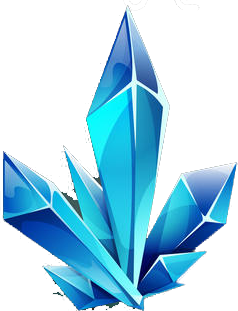
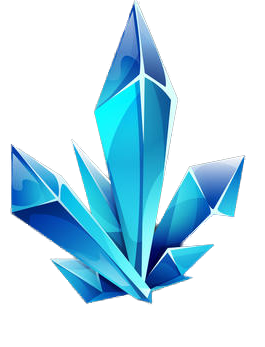
added a few background images to the jumbotrons and changed the theme to b&w

diff --git a/index.html b/index.html
@@ -7,53 +7,92 @@
   <link rel="stylesheet" type="text/css" href="assets/css/reset.css">
   <!-- Added link to the jQuery library -->
   <script src="https://cdnjs.cloudflare.com/ajax/libs/jquery/3.2.1/jquery.min.js"></script>
+  <script src="https://code.jquery.com/jquery-3.3.1.slim.min.js" integrity="sha384-q8i/X+965DzO0rT7abK41JStQIAqVgRVzpbzo5smXKp4YfRvH+8abtTE1Pi6jizo" crossorigin="anonymous"></script>
+<script src="https://cdnjs.cloudflare.com/ajax/libs/popper.js/1.14.0/umd/popper.min.js" integrity="sha384-cs/chFZiN24E4KMATLdqdvsezGxaGsi4hLGOzlXwp5UZB1LY//20VyM2taTB4QvJ" crossorigin="anonymous"></script>
 
   <!-- Added a link to Bootstrap-->
   <link rel="stylesheet" href="https://maxcdn.bootstrapcdn.com/bootstrap/4.0.0/css/bootstrap.min.css">
+  <link href="https://fonts.googleapis.com/css?family=Amatic+SC" rel="stylesheet">
   <link rel="stylesheet" type="text/css" href="assets/css/style.css">  
-
+<script>
+    var crystal1Sound = new Audio();
+    crystal1Sound.src = "assets/sounds/Pop.mp3";
+</script>>
+</style>
 </head>
-<body class="bg-dark">
-    <div class="jumbotron bg-primary text-white">
-            <h1 class="text-center">Crystal Clarity</h1>
-    </div>
-    <div class="jumbotron">
-      <h1 class="text-center">Match this Number:</h1>
-      <h1 class="text-center" id="random-number"></h1>
-      <h1 class="text-center">Total: </h1>
-      <h1 class="text-center" id="total-score"></h1>
-    </div>
-  <div class="container">
+<body class="bg2">
+    
+<div class="container">
+        <div class="row mb-0 pb-0">
+            <div class="jumbotron col-12 bg1 outline-text">
+                <h1 class="text-center mySpecialFont" id="mainTitle">Crystal Clarity</h1>
+            </div>
+        </div>
+        <div class="row mt-0">
+                
+                    <div class="col-6">
+                        <ul class="nav text-white">
+                            <li>Games Lost: </li>
+                            <li id="gamesLostCounter"></li>
+                        </ul>
+                    </div>
+                    <div class="col-6">
+                        <ul class="nav text-white justify-content-end">
+                            <li class="text-right">Games Won: </li>
+                            <li id="gamesWonCounter"></li>
+                        </ul>
+                    </div>
+               
+        </div>
+
+        <div class="row">
+            <div class="col-4"></div>
+
+            <div class="jumbotron col-md-4 col-sm-12">
+                <h2 class="text-center display-6 mySpecialFont">Match this Number:</h2>
+                <hr class="my-1 bg">
+                <h1 class="text-center" id="random-number"></h1>
+            </div>
+
+            <div class="col-4"></div>
+
+            
+        </div>
+        <div class="row">
+            <div class="col-md-5 col-sm-12"></div>
+            <div class="jumbotron col-md-2 col-sm-12 bg outline-text">
+                <h2 class="text-center mySpecialFont">Your Total:</h2>
+                <h1 class="text-center" id="total-score"></h1>
+            </div>
+            <div class="col-md-5 col-sm-12"></div>
+        </div>
+
     <div class="row">
             <div class="crystals col-sm-2" id="crystal-number-1">
-                <img src="assets/images/crystal1.png" alt="Crystal 1 icon" style="width:200px;height:200px;">
+                <img src="assets/images/crystal1off.png" alt="Crystal 1 icon" onmousedown="crystal1Sound.play()" style="width:200px;height:200px;">
             </div>
 
             <div class="col-sm-1"></div>
 
             <div class="crystals col-sm-2" id="crystal-number-2">
-                <img src="assets/images/crystal2.png" alt="Crystal 2 icon" style="width:200px;height:200px;">
+                <img src="assets/images/crystal2off.png" alt="Crystal 2 icon" onmousedown="crystal1Sound.play()" style="width:200px;height:200px;">
             </div>
 
             <div class="col-sm-1"></div>
 
             <div class="crystals col-sm-2" id="crystal-number-3">
-                <img src="assets/images/crystal3.png" alt="Crystal 3 icon" style="width:200px;height:200px;">
+                <img src="assets/images/crystal3off.png" alt="Crystal 3 icon" onmousedown="crystal1Sound.play()" style="width:200px;height:200px;">
             </div>
 
             <div class="col-sm-1"></div>
 
             <div class="crystals col-sm-2" id="crystal-number-4">
-                <img src="assets/images/crystal4.png" alt="Crystal 4 icon" style="width:200px;height:200px;">
+                <img src="assets/images/crystal4off.png" alt="Crystal 4 icon" onmousedown="crystal1Sound.play()" style="width:200px;height:200px;">
             </div>
         
     </div>
-                <h1 class="text-white">Games Won: </h1>
-                <h1 class="text-white" id="gamesWonCounter"></h1>
-                <h1 class="text-right text-white">Games Lost: </h1>
-                <h1 class="text-right text-white" id="gamesLostCounter"></h1>
-
-    </div>
+    
+</div>
 
   
     <!-- Here we have div called "randomNumber" where our random number will go -->

diff --git a/assets/css/style.css b/assets/css/style.css
@@ -1,0 +1,45 @@
+
+body, html {
+    height: 100%;
+}
+.bg { 
+
+    background-image: url("../images/backgroundImage.jpg");
+    background-size: cover;
+} 
+
+.bg1 { 
+    /* The image used */
+    background-image: url("../images/navBarImage.jpg");
+
+    /* Half height */
+    height: 50%; 
+
+    /* Center and scale the image nicely */
+    background-position: center;
+    background-repeat: no-repeat;
+    background-size: cover;
+}
+
+.bg2 {
+    background-color: black;
+}
+
+.outline-text {
+    color: white;
+    text-shadow: 2px 2px black;
+}
+
+#crystal1-change:hover {
+        background: url("../images/crystal1.png") no-repeat;
+        width:200px;
+        height:200px;
+    }
+
+#mainTitle {
+    font-size: 100px;
+}
+
+.mySpecialFont {
+    font-family: 'Amatic SC', cursive;
+}

diff --git a/assets/javascript/game.js b/assets/javascript/game.js
@@ -19,6 +19,7 @@ var totalScore = 0;
 var gamesLost = 0;
 var gamesWon = 0;
 var matchThisNumber = 0;
+
 // call function to genereate random for all four crystals
 var crystalNumber1 = crystalNumberGen();
 
